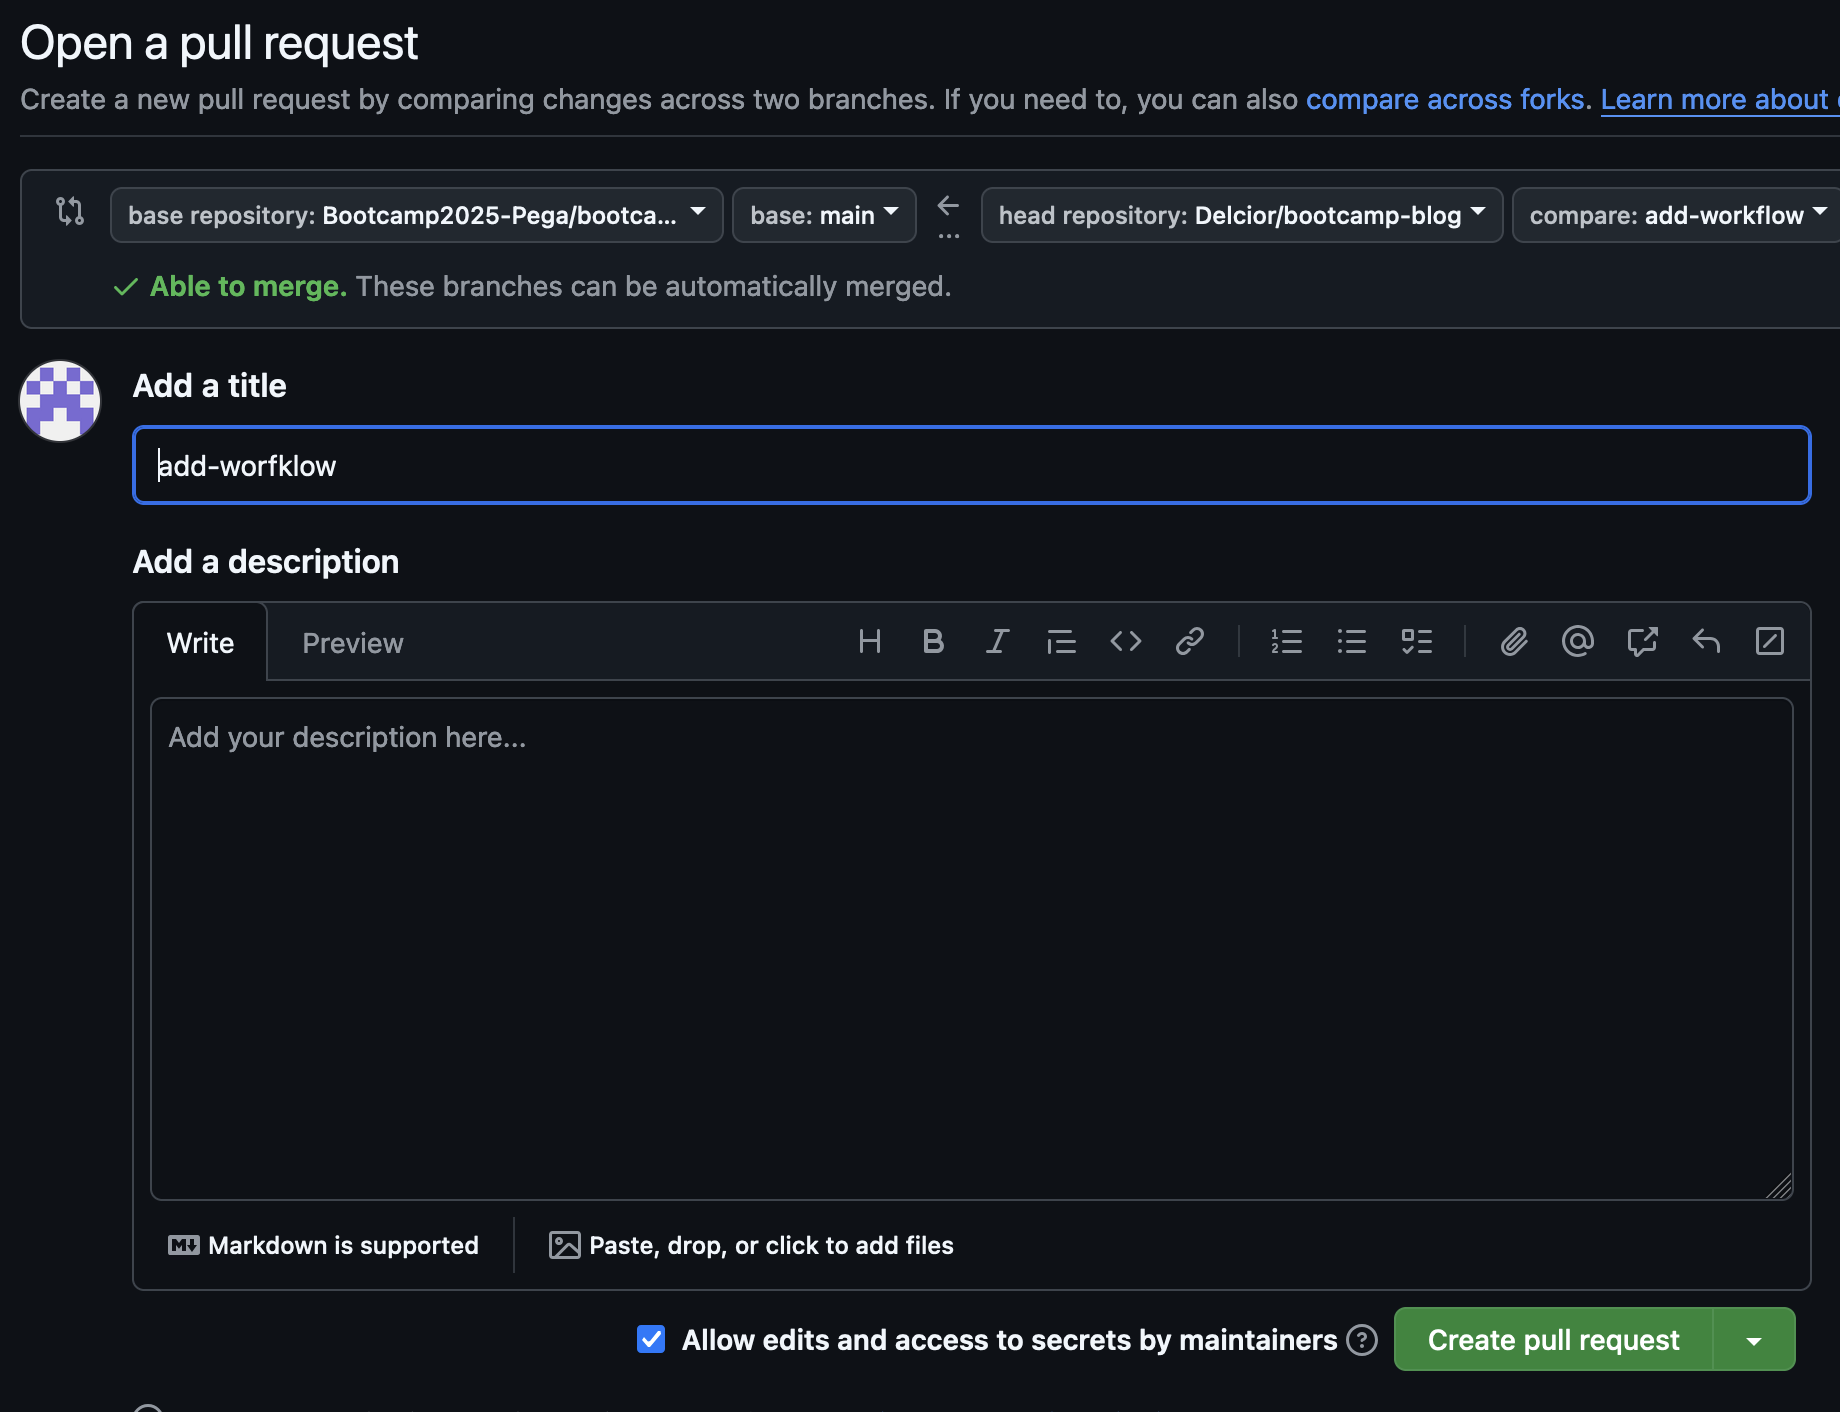
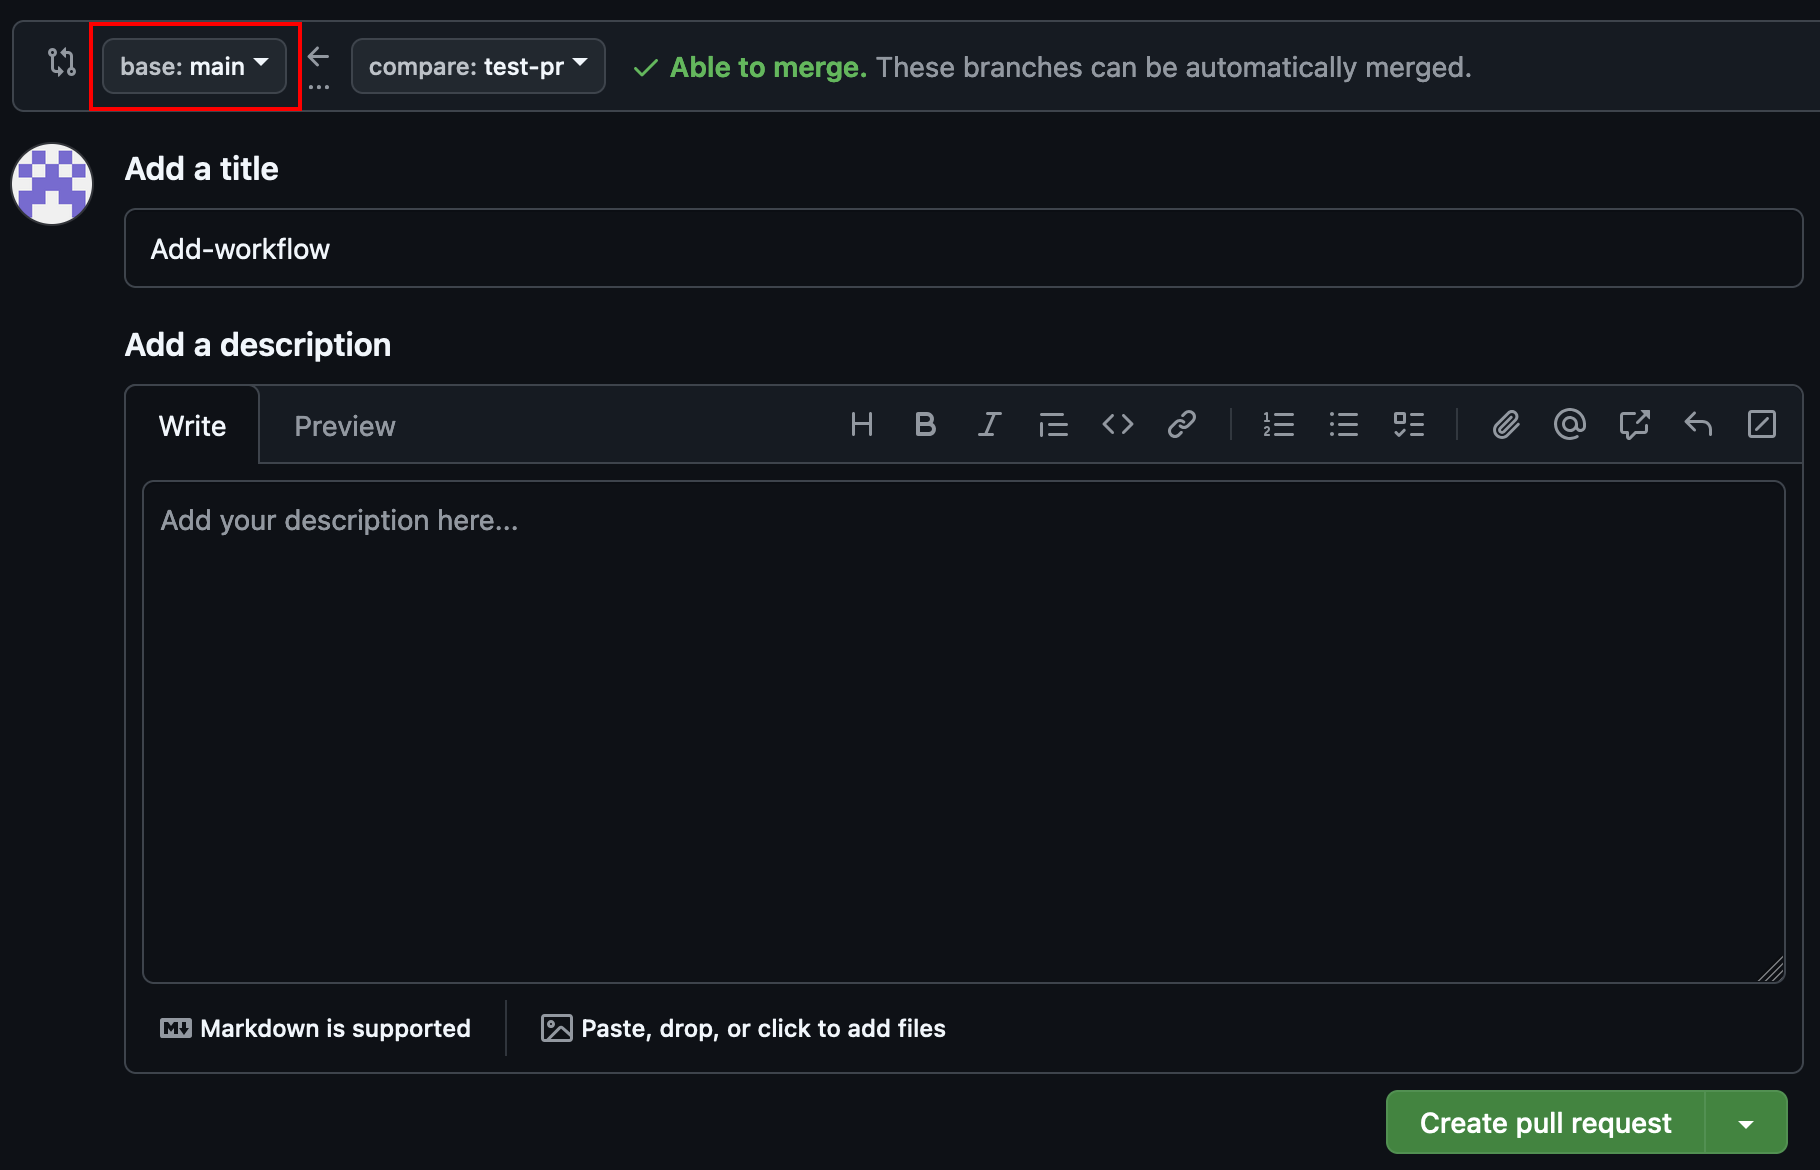
add releases

Changed region(s): [[0.0, 0.0, 1.0, 1.0]]

diff --git a/README.md b/README.md
@@ -119,6 +119,8 @@ name: CI/CD Pipeline
 # Trigger the workflow on push to main and develop branches, and on pull requests
 on:
     push:
+      tags:
+        - '*'
       branches:
         - main
     pull_request:
@@ -152,6 +154,7 @@ jobs:
       - name: Build
         run: |
           DISABLE_DB_CONNECTION=true npm run build
+
   ```
   * commit changes and push to remote<br>
   `git add .`<br>
@@ -159,9 +162,10 @@ jobs:
   `git push -u origin add-workflow`
 
   * head to the URL provided by git
-  ![alt text](img/pr-creation-terminal.png.png)
-  * you will see context menu for Pull Request creation
-  ![alt text](img/pr-creation.png.png)
+  ![alt text](img/pr-creation-terminal.png)
+  * you will see context menu for Pull Request creation<br>
+  **IMPORTANT**: set `base` (red box) to point to **your** repo, not the BootCamp one
+  ![alt text](img/pr-creation.png)
 
   * adjust the title / add description and click `Create pull request` button
 
@@ -181,9 +185,7 @@ We need to execute tests in our workflow too. Locate the `steps` list in your Gi
 ```
 Create a pull request, wait for validation to pass and merge.
 
-### 3.3.3. Verify pull request
-
-### 3.3.4. Static Code Analysis
+### 3.3.3. Static Code Analysis
 #### **SonarCloud**
 SonarCloud is a cloud-based service designed to continuosly inspect your cose for quality and security issues. What it does:
 * Code Quality Analisys: scans code to detect bugs, code smells, and vulnerabilities
@@ -233,7 +235,7 @@ In order to integrate Sonar into your project follow those steps:
 ```          
 9. You are all set. On your workflow run, sonar scan will be executed and published to the repository.
 
-### 3.3.5. Test Coverage
+### 3.3.4. Test Coverage
 
 In order to capture coverage, we need to enable it alongside tests.
 
@@ -262,7 +264,7 @@ Verify Configuration. After your workflow completes:
 
 This integration will help you track code quality and ensure adequate test coverage for your application.
 
-### 3.3.6. Static Application Security Testing (SAST)
+### 3.3.5. Static Application Security Testing (SAST)
 
 1.	Create new account on Semgrep (this can be done via Sign in with Github)
 2.	Go to Projects tab 
@@ -284,9 +286,16 @@ This integration will help you track code quality and ensure adequate test cover
 14.	Click Install
 ![Semgrep - Projects](img/semgrep/ad14.png)
 
-### 3.3.7. Software Composition Analysis (SCA)
+### 3.3.6. Software Composition Analysis (SCA)
 
-### 3.3.8. ...
+### 3.3.7. Releasing stable version
+After itegrating bunch of changes to `main`, you've finished working on a feature(s) and you need to release a new version. 
+* Go to main view of your repository, on the right-side you'll see `Releases` section. Click on the link <br>
+![alt text](img/releases.png)
+* Type tag name (e.g. v0.1.0), title and description containing changes introduced in new Release. After clicking `Publish release`, GitHub will create new tag (with name you've provided) and will trigger your workflow.<br>
+![alt text](img/releases-page.png)
+* You can then view your release along with its assets
+![alt text](img/releases-final.png)
 
 ## 3.4 Module 4: Deployment to Free-Tier Service
 # How to Create an Account on Vercel
